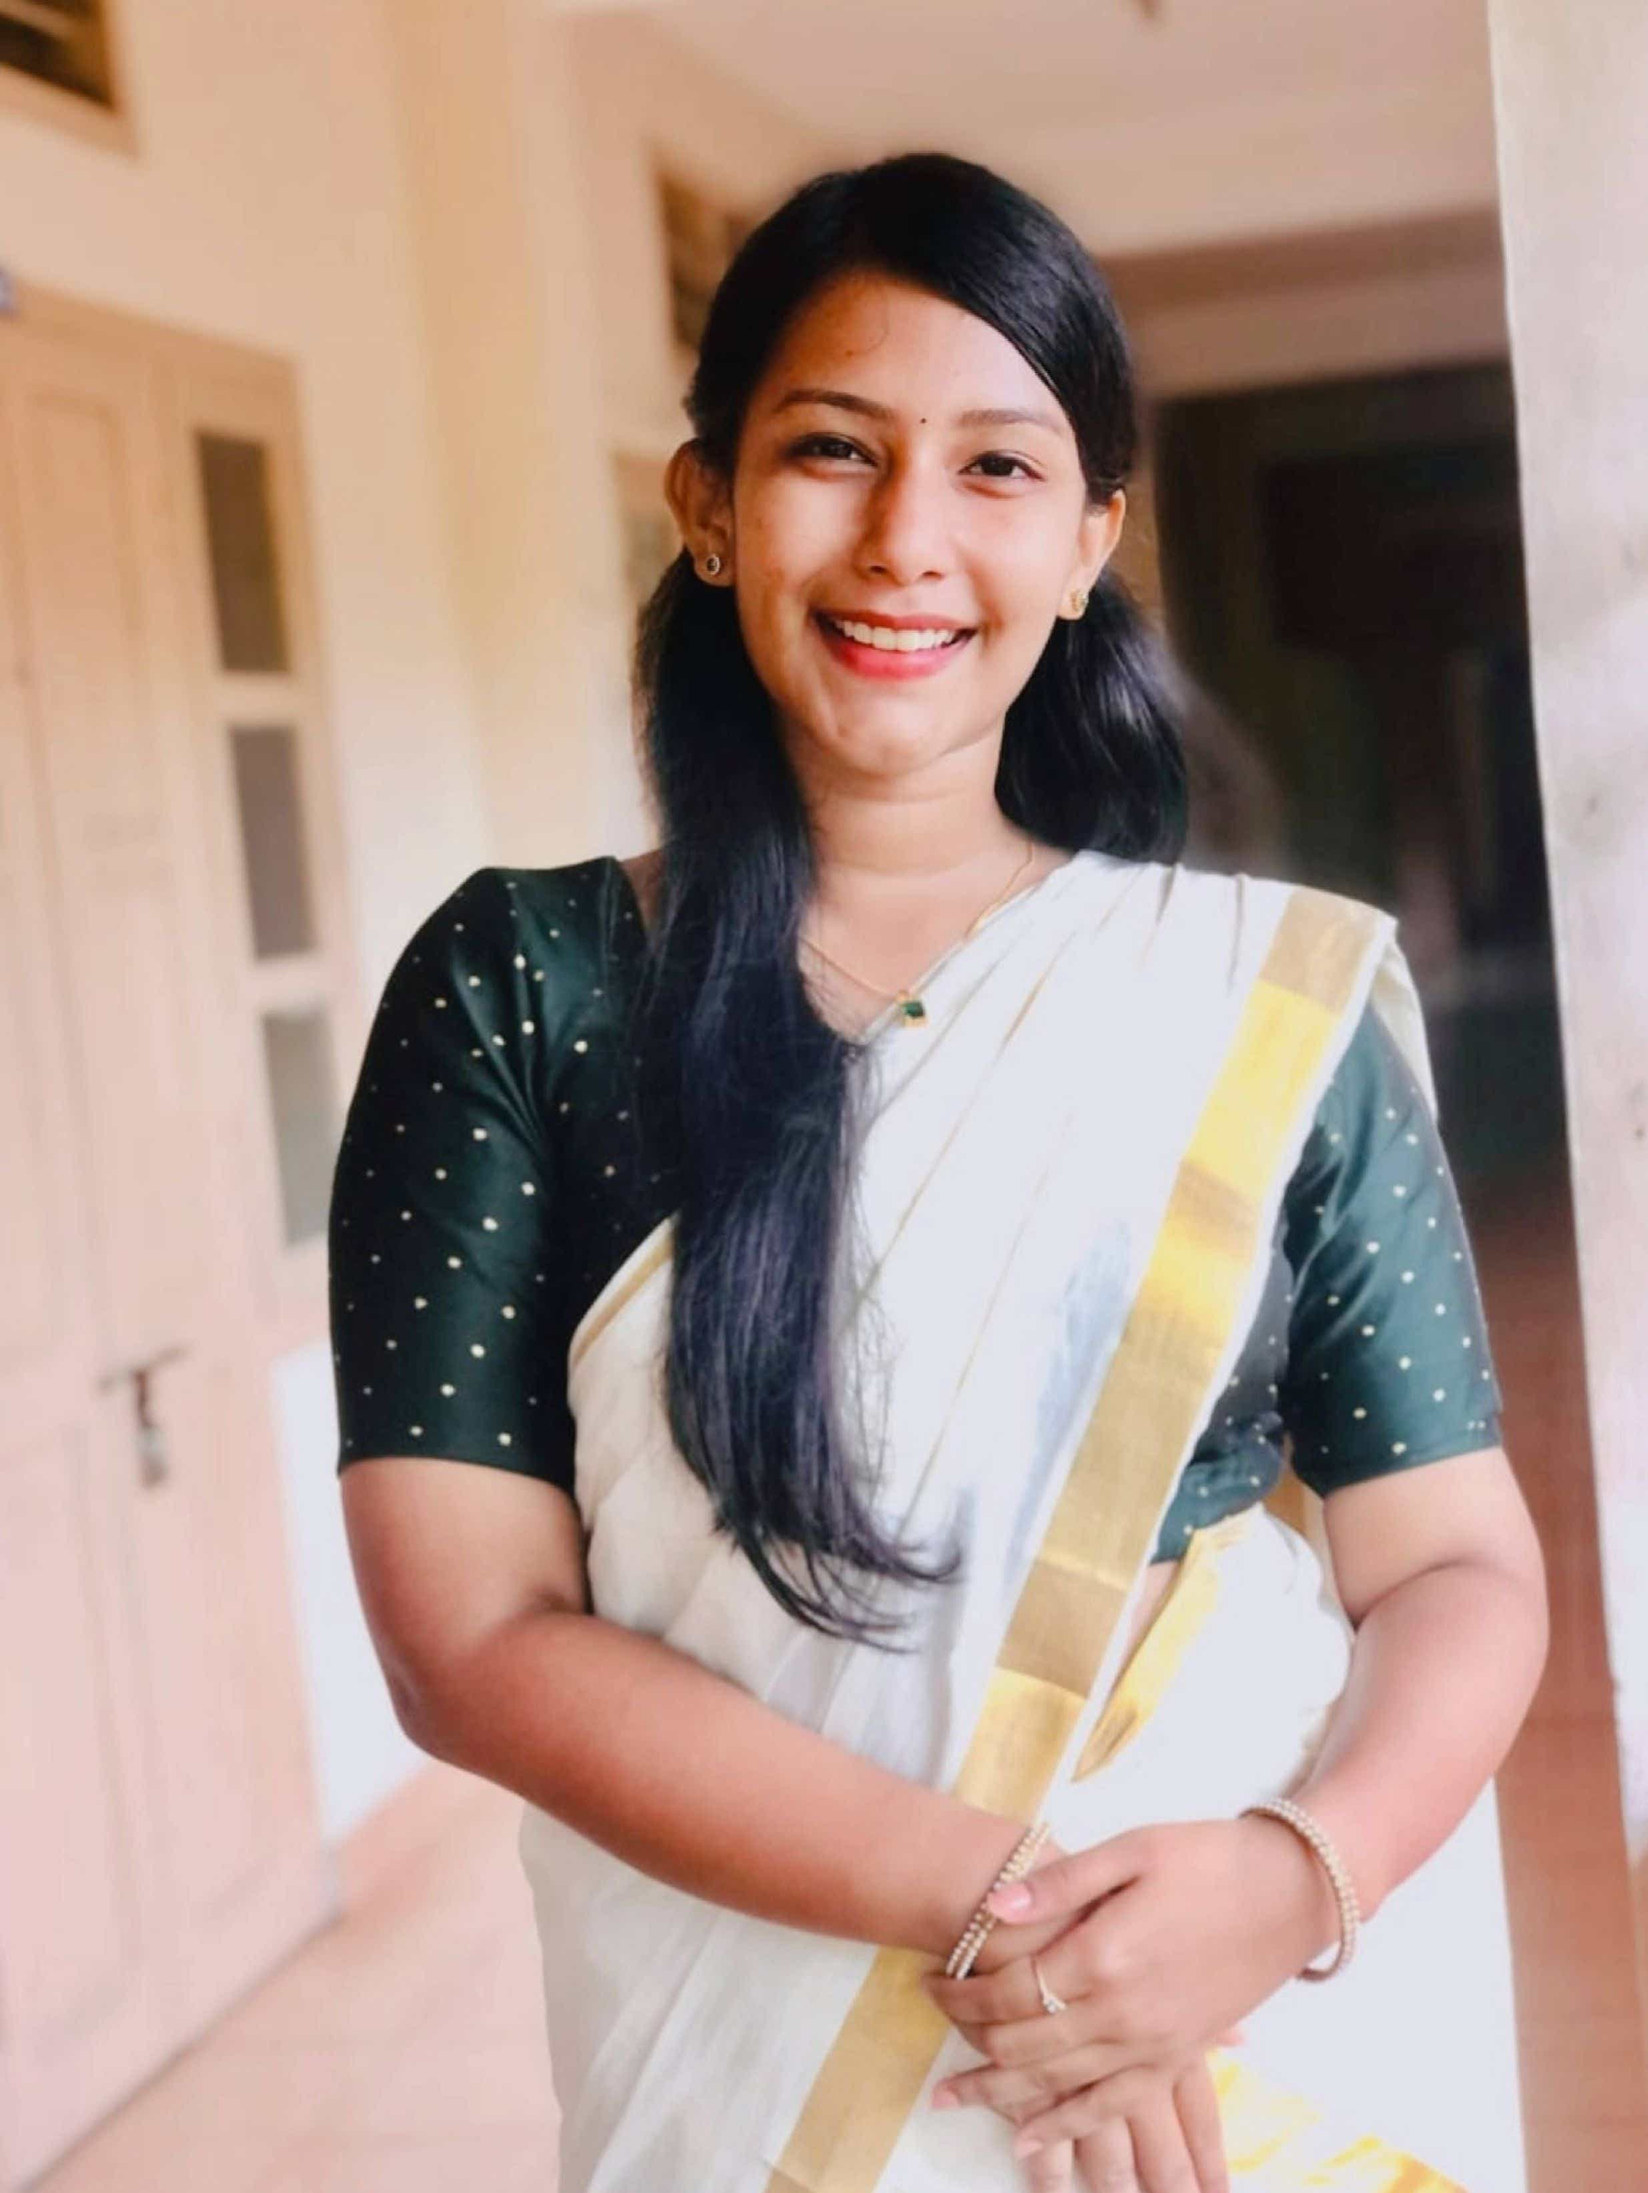
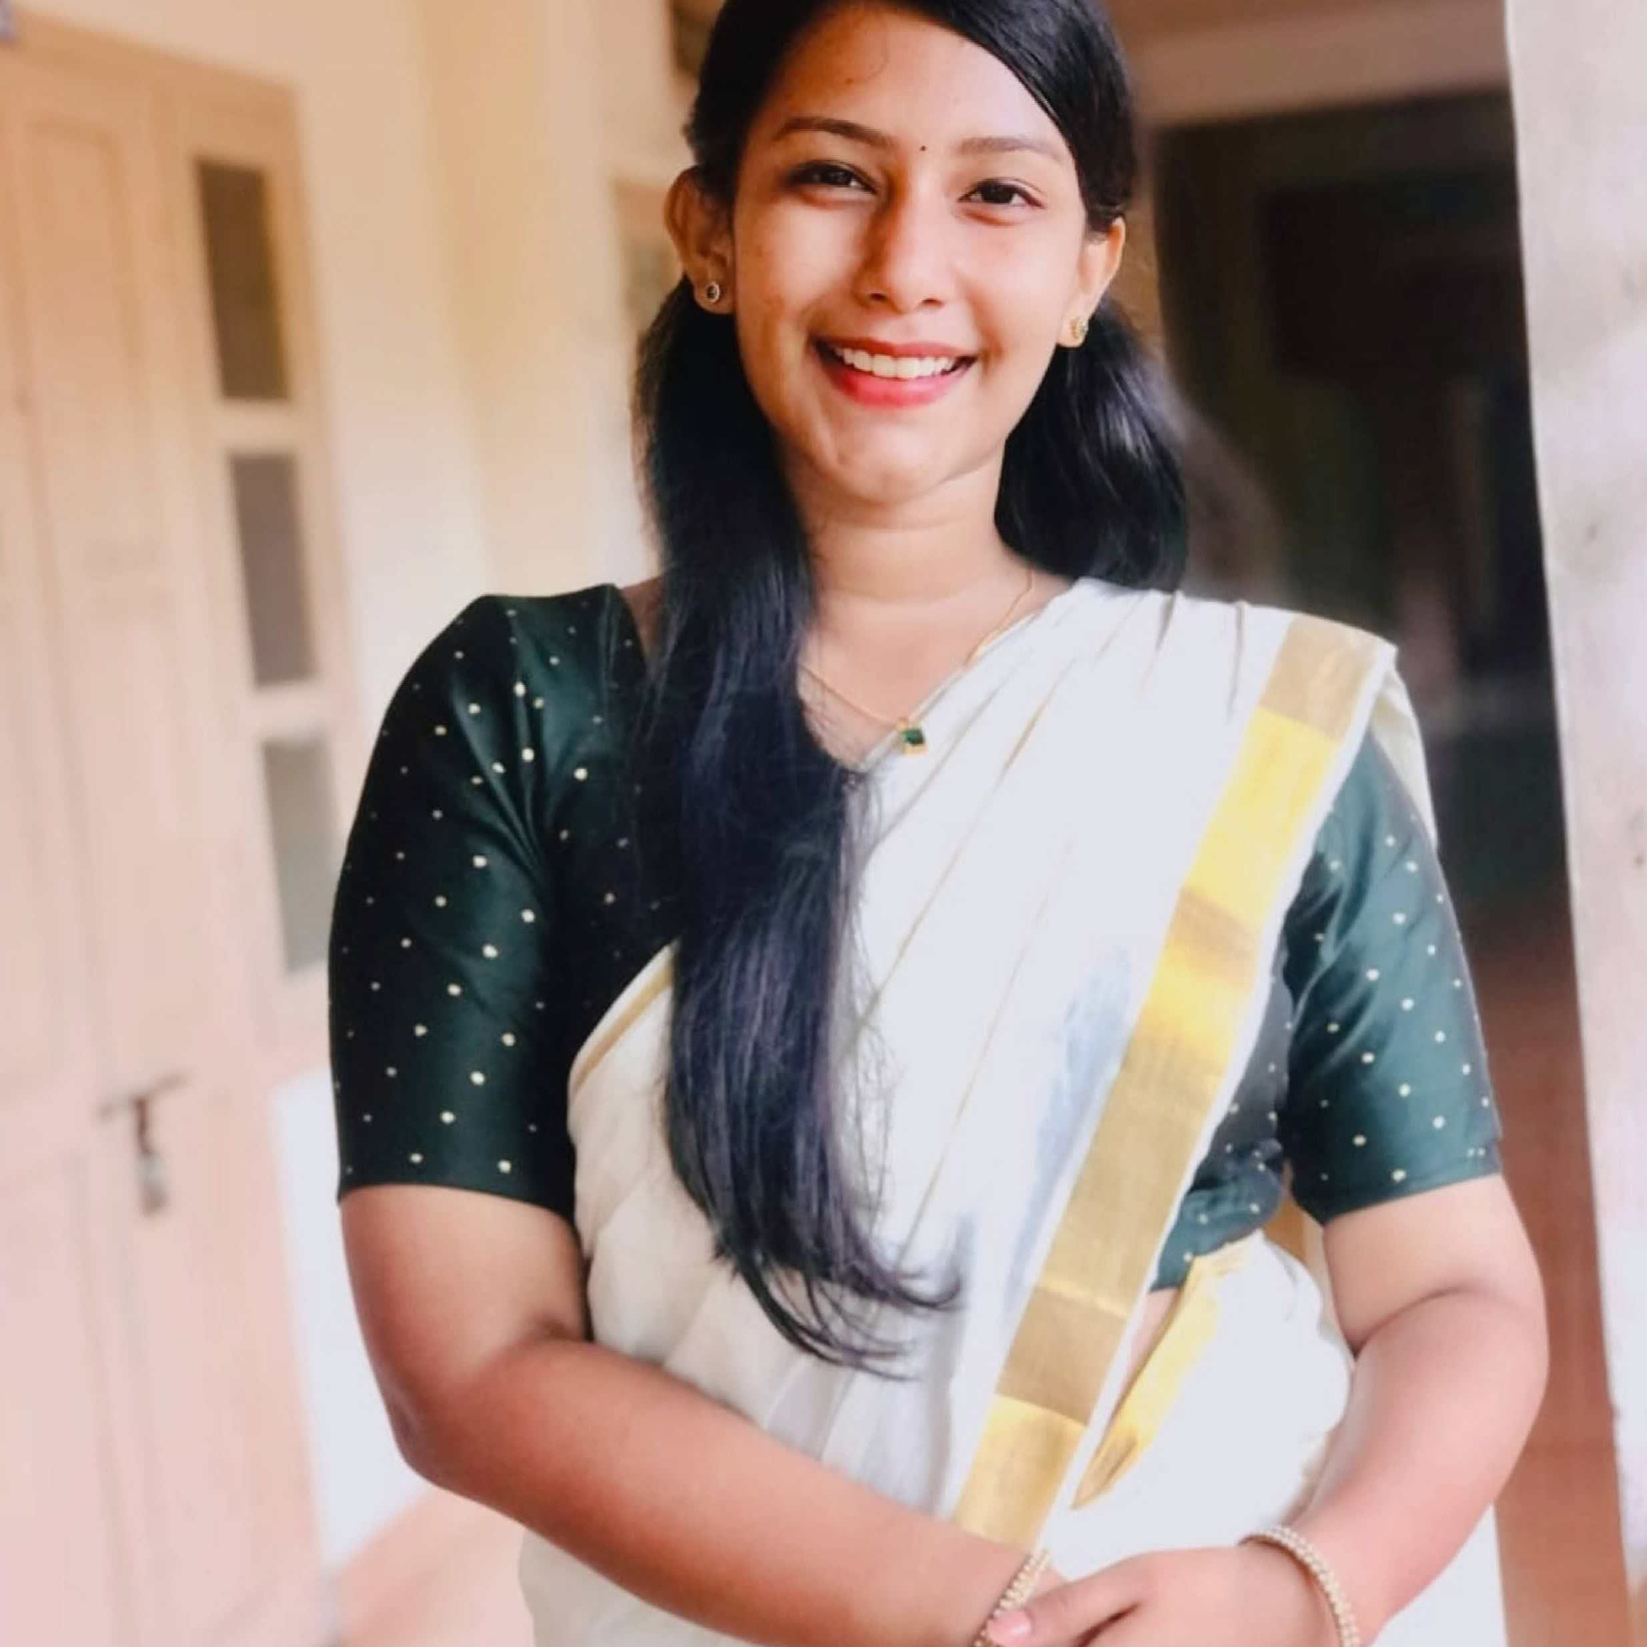
Update WIE Society member details and images on the 2024 execom page.

diff --git a/execoms/execom24.html b/execoms/execom24.html
@@ -414,7 +414,7 @@
                                 </div>
                                 <div class="testimonials-card">
                                     <div class="testimonials-card-photo"><img
-                                            src="../assets/images/avatar/2024/Rebecca Mary Varughese.jpg" alt="">
+                                            src="../assets/images/avatar/2024/Rebecca Mary Varughese.png" alt="">
                                     </div>
                                     <div class="testimonials-card-content">
 
@@ -834,62 +834,62 @@
 
                                 <div class="testimonials-card wie-society">
                                     <div class="testimonials-card-photo"><img
-                                            src="../assets/images/avatar/2023/indu-reena-varughese.jpg" alt="">
+                                            src="../assets/images/avatar/2024/indu-reena-varughese.jpg" alt="">
                                     </div>
                                     <div class="testimonials-card-content">
 
                                     </div>
                                     <div class="testimonials-card-author">
                                         <h4>Asst. Prof. Indu Reena Varughese</h4>
-                                        <p>Faculty Advisor</p>
+                                        <p>Affinity Group Advisor</p>
                                     </div>
                                 </div>
                                 <div class="testimonials-card wie-society">
                                     <div class="testimonials-card-photo"><img
-                                            src="../assets/images/avatar/2023/maria-jojo.jpeg" alt="">
+                                            src="../assets/images/avatar/2024/Maria Santhosh.jpg" alt="">
                                     </div>
                                     <div class="testimonials-card-content">
 
                                     </div>
                                     <div class="testimonials-card-author">
-                                        <h4>MARIA JOJO</h4>
+                                        <h4>Maria Santhosh</h4>
                                         <p>Chair</p>
                                     </div>
                                 </div>
                                 <div class="testimonials-card wie-society">
                                     <div class="testimonials-card-photo"><img
-                                            src="../assets/images/avatar/2023/hazna-r-mohammed.jpg" alt="">
+                                            src="../assets/images/avatar/2024/Sara Shahjahan.png" alt="">
                                     </div>
                                     <div class="testimonials-card-content">
 
                                     </div>
                                     <div class="testimonials-card-author">
-                                        <h4>HAZNA R MOHAMMED</h4>
+                                        <h4>Sara Shahjahan</h4>
                                         <p>Vice Chair</p>
                                     </div>
                                 </div>
                                 <div class="testimonials-card wie-society">
                                     <div class="testimonials-card-photo"><img
-                                            src="../assets/images/avatar/2023/maria-santhosh.jpg" alt="">
+                                            src="../assets/images/avatar/2024/Abina Sebastian.jpg" alt="">
                                     </div>
                                     <div class="testimonials-card-content">
 
                                     </div>
                                     <div class="testimonials-card-author">
-                                        <h4>MARIA SANTHOSH</h4>
+                                        <h4>Abina Sebastian</h4>
                                         <p>Secretary</p>
                                     </div>
                                 </div>
                                 <div class="testimonials-card wie-society">
                                     <div class="testimonials-card-photo"><img
-                                            src="../assets/images/avatar/2023/josna-clare-jolly.jpg" alt="">
+                                            src="../assets/images/avatar/2024/Aksa Kunjumon.jpg" alt="">
                                     </div>
                                     <div class="testimonials-card-content">
 
                                     </div>
                                     <div class="testimonials-card-author">
-                                        <h4>JOSNA CLAIRE JOLLY</h4>
-                                        <p>Tech Head</p>
+                                        <h4>Aksa Kunjumon</h4>
+                                        <p>Event Coordinator</p>
                                     </div>
                                 </div>
 
